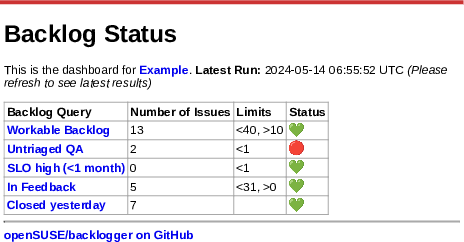
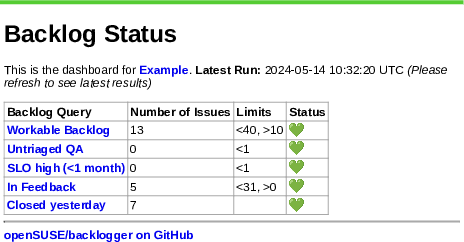
Deploy preview for PR 52 🛫

diff --git a/pr-preview/pr-52/index.html b/pr-preview/pr-52/index.html
@@ -5,12 +5,12 @@
 <!-- Facebook / Slack tags -->
 <meta property="og:title" content="Backlog Limits Checker" />
 <meta property="og:url" content="https://github.com/openSUSE/backlogger" />
-<meta property="og:image" content="https://openSUSE.github.io/backlogger/preview.png?v=1715669755" />
+<meta property="og:image" content="https://openSUSE.github.io/backlogger/preview.png?v=1715682743" />
 <meta http-equiv="refresh" content="600">
 <style>
 main {
     font-family: Verdana, Arial;
-    border-top: 5px solid #cc3333;
+    border-top: 5px solid #55cc33;
     margin: 0px 5px 5px 5px;
     padding: 0 5px;
     background-color: white;
@@ -36,7 +36,7 @@ a {
 <h1 id="backlog-status">Backlog Status</h1>
 
 <p>This is the dashboard for <a href="http://example.com">Example</a>.
-<strong>Latest Run:</strong> 2024-05-14 06:55:52 UTC
+<strong>Latest Run:</strong> 2024-05-14 10:32:20 UTC
 <em>(Please refresh to see latest results)</em></p>
 
 <table>
@@ -57,9 +57,9 @@ a {
     </tr>
     <tr>
       <td><a href="https://progress.opensuse.org/issues?query_id=576&amp;project_id=115">Untriaged QA</a></td>
-      <td>2</td>
+      <td>0</td>
       <td>&lt;1</td>
-      <td>🔴</td>
+      <td>💚</td>
     </tr>
     <tr>
       <td><a href="https://progress.opensuse.org/issues?query_id=544">SLO high (&lt;1 month)</a></td>
